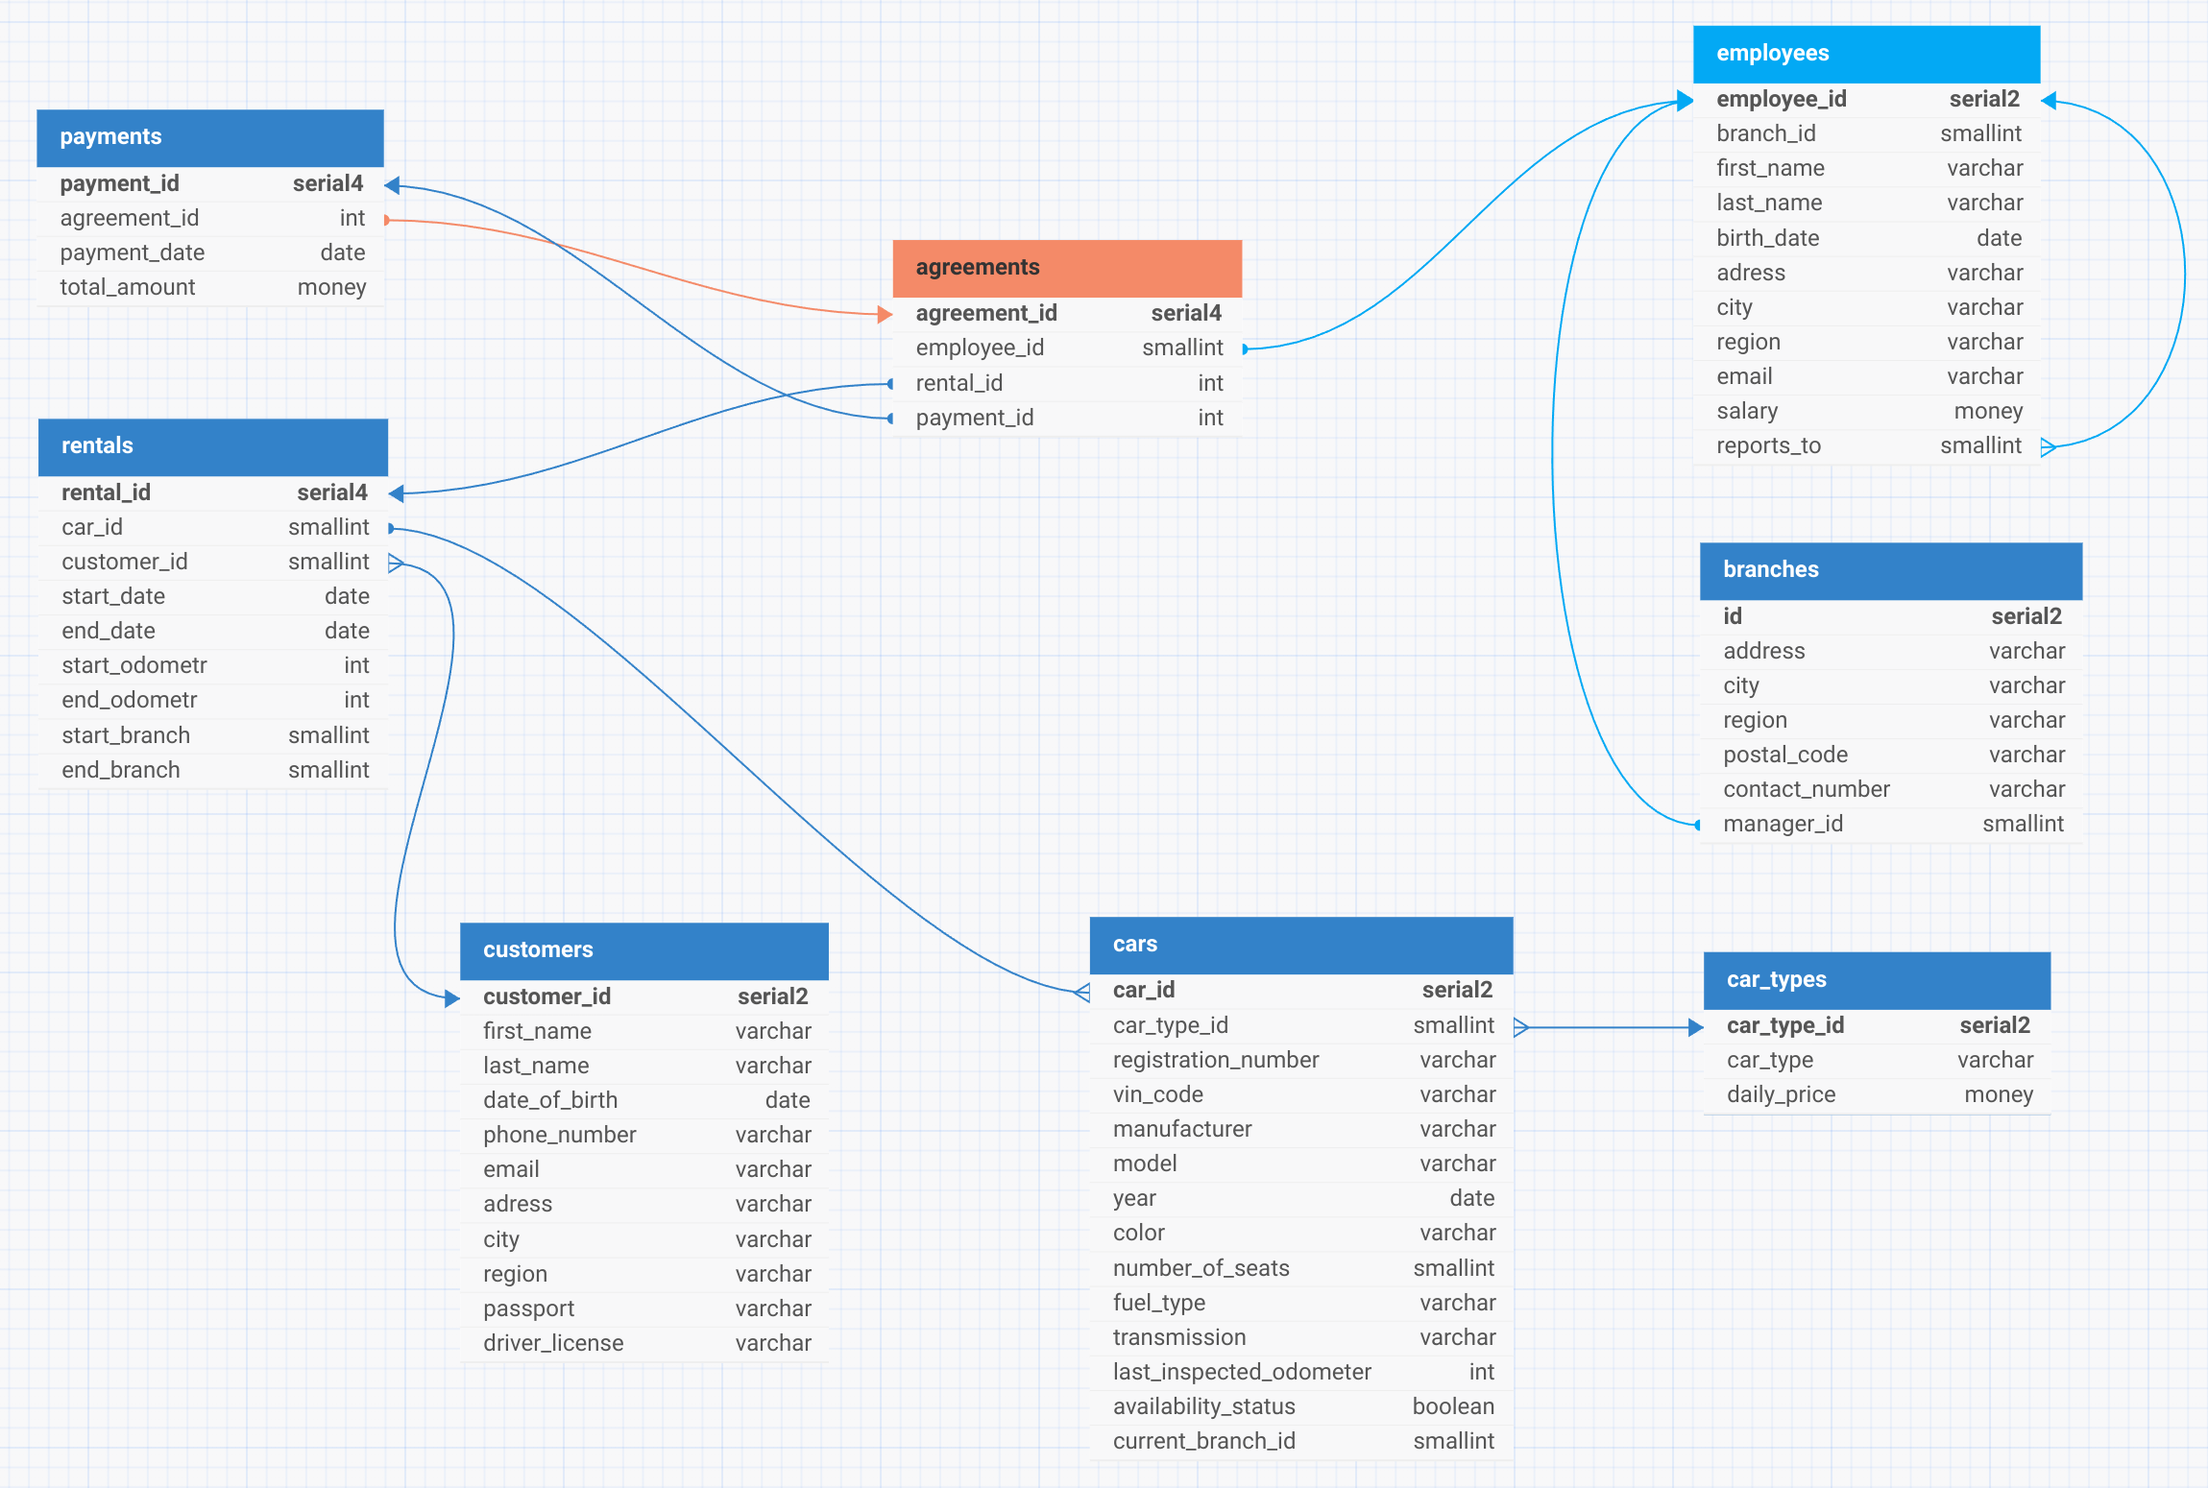
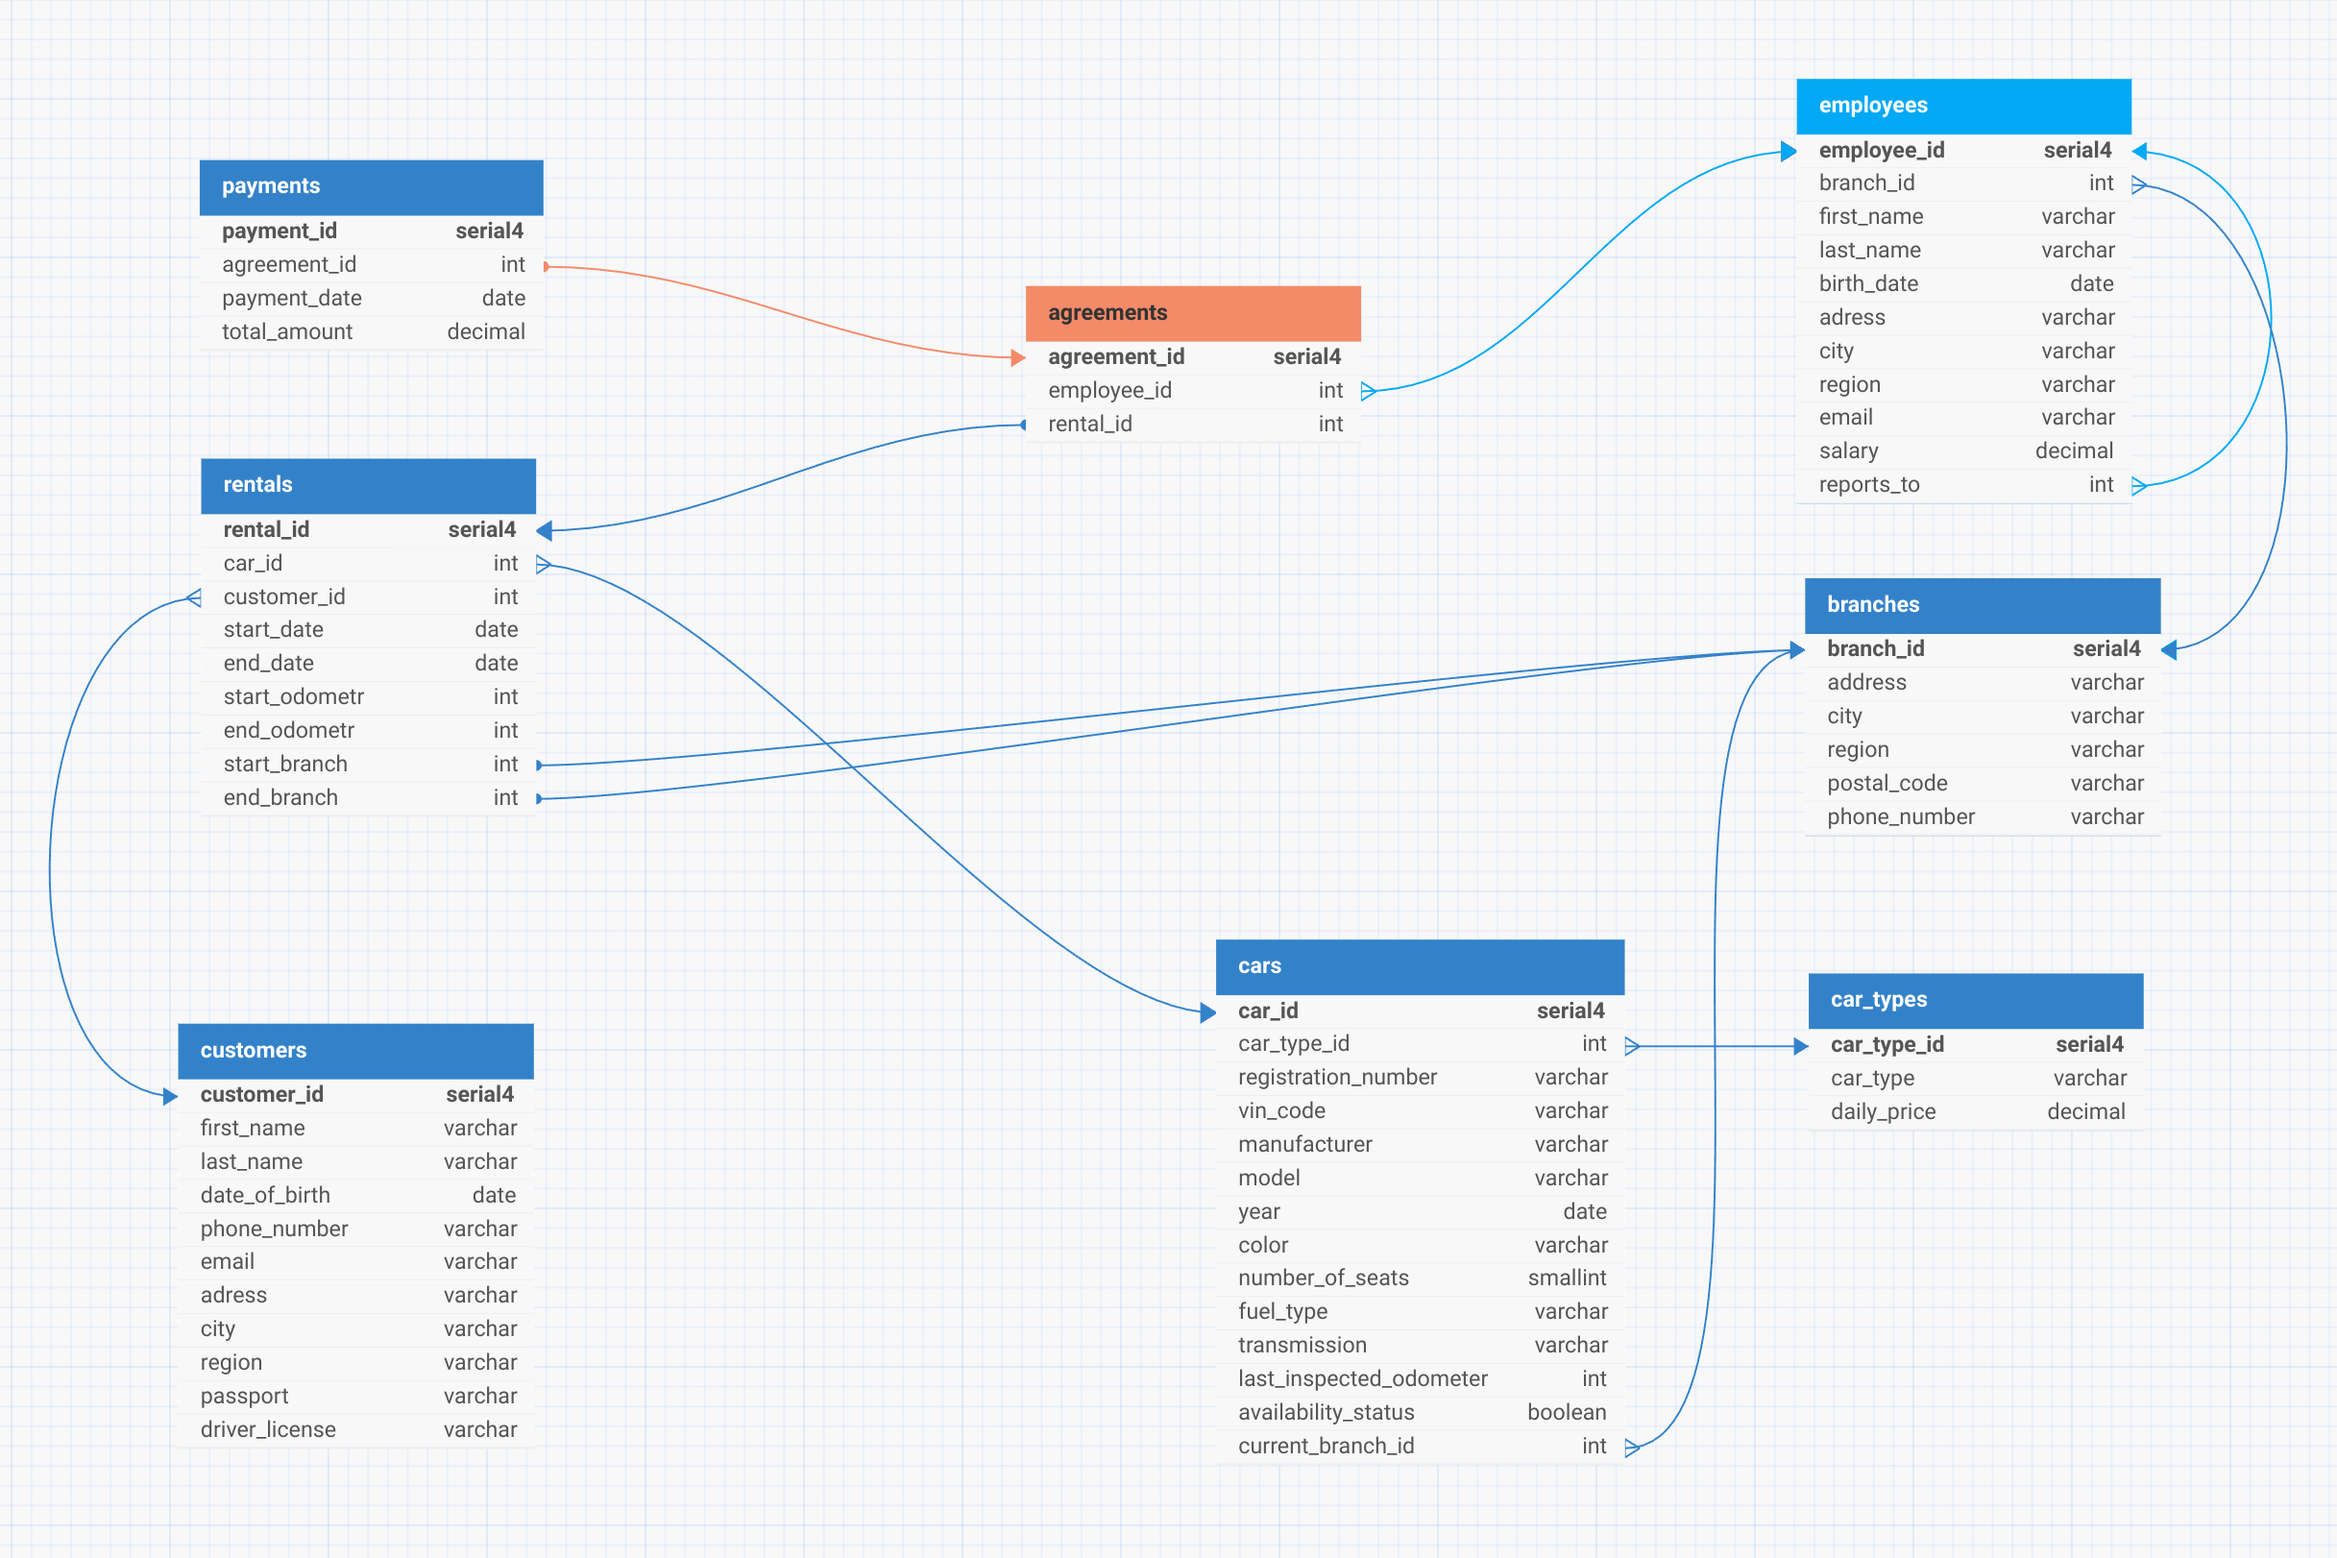
Fix preview for Module #7 'DB Design'

diff --git a/DB Design/car_rental_business_logic.md b/DB Design/car_rental_business_logic.md
@@ -2,7 +2,7 @@
 ### Cars
 
 - Each car has a unique identifier called `car_id`.
-- The `car_type_id` tells us what type of car it is, like econom, comfort  etc.
+- The `car_type_id` refers to the `car_types` table that indicates the type of car
 - It has a registration number and a VIN code to uniquely identify it.
 - We store details like the manufacturer, model, year, color, and number of seats.
 - Other information includes fuel type, transmission type, and the last odometer reading.
@@ -20,11 +20,11 @@
 
 - Each agreement has a unique identifier called `agreement_id`.
 - It's linked to an employee who handles the agreement.
-- It's also associated with a rental and a payment.
 
 ### Car Types
 
 - Different types of cars are stored here, each with a unique `car_type_id`.
+- `car_type` tells us what type of car it is, like econom, comfort  etc.
 - We describe the type of car and its daily rental price.
 
 ### Payments
@@ -42,8 +42,7 @@
 ### Branches
 
 - Each branch of the rental company has its own unique identifier.
-- We store its address, city, region, postal code, and contact number.
-- There's also a manager associated with each branch.
+- We store its address, city, region, postal code, and phone number.
 
 ### Employees
 
@@ -51,4 +50,3 @@
 - We link them to the branch they work at and store their personal information.
 - This includes their name, birth date, address, and contact details.
 - Additionally, we track their salary and who they report to within the company.
-- An employee can be a branch manager
